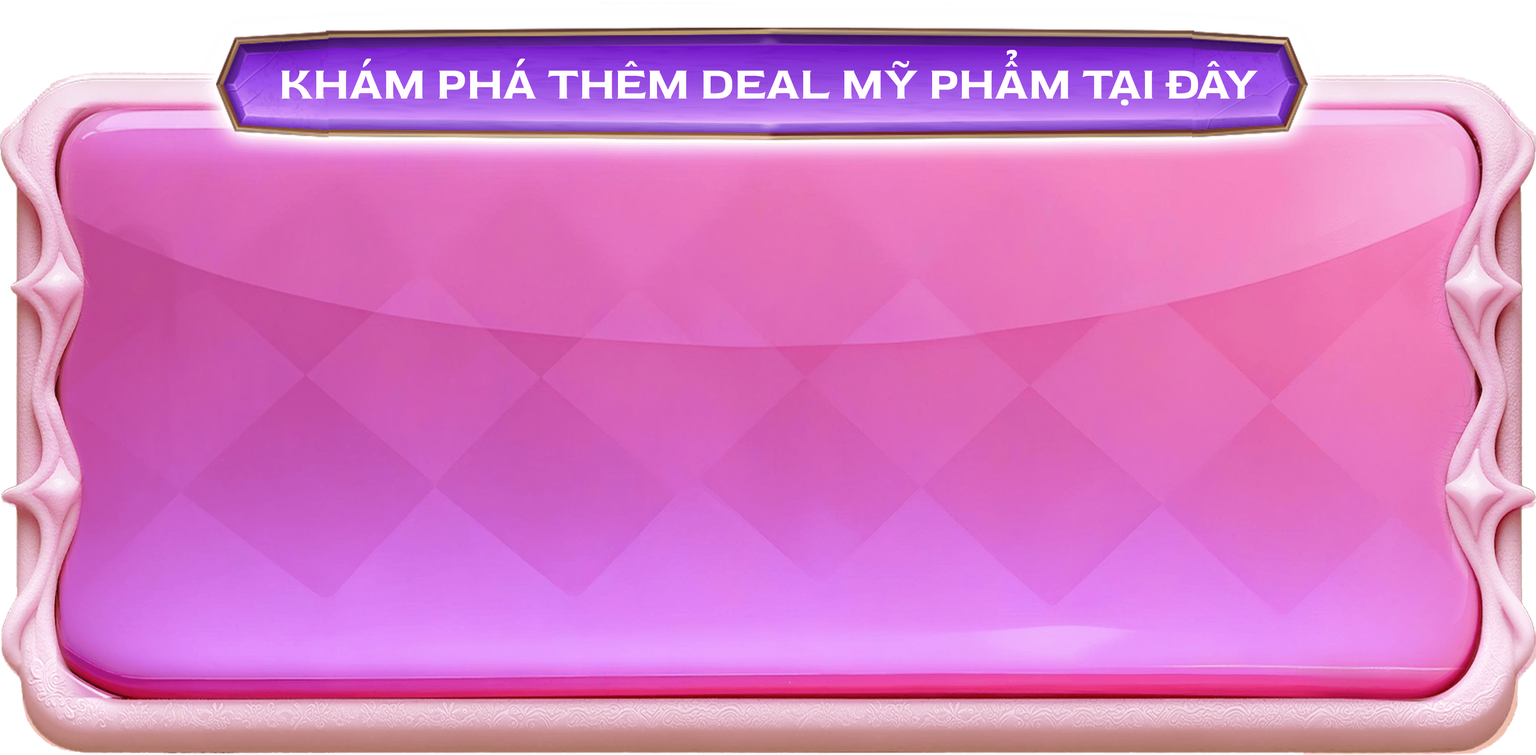
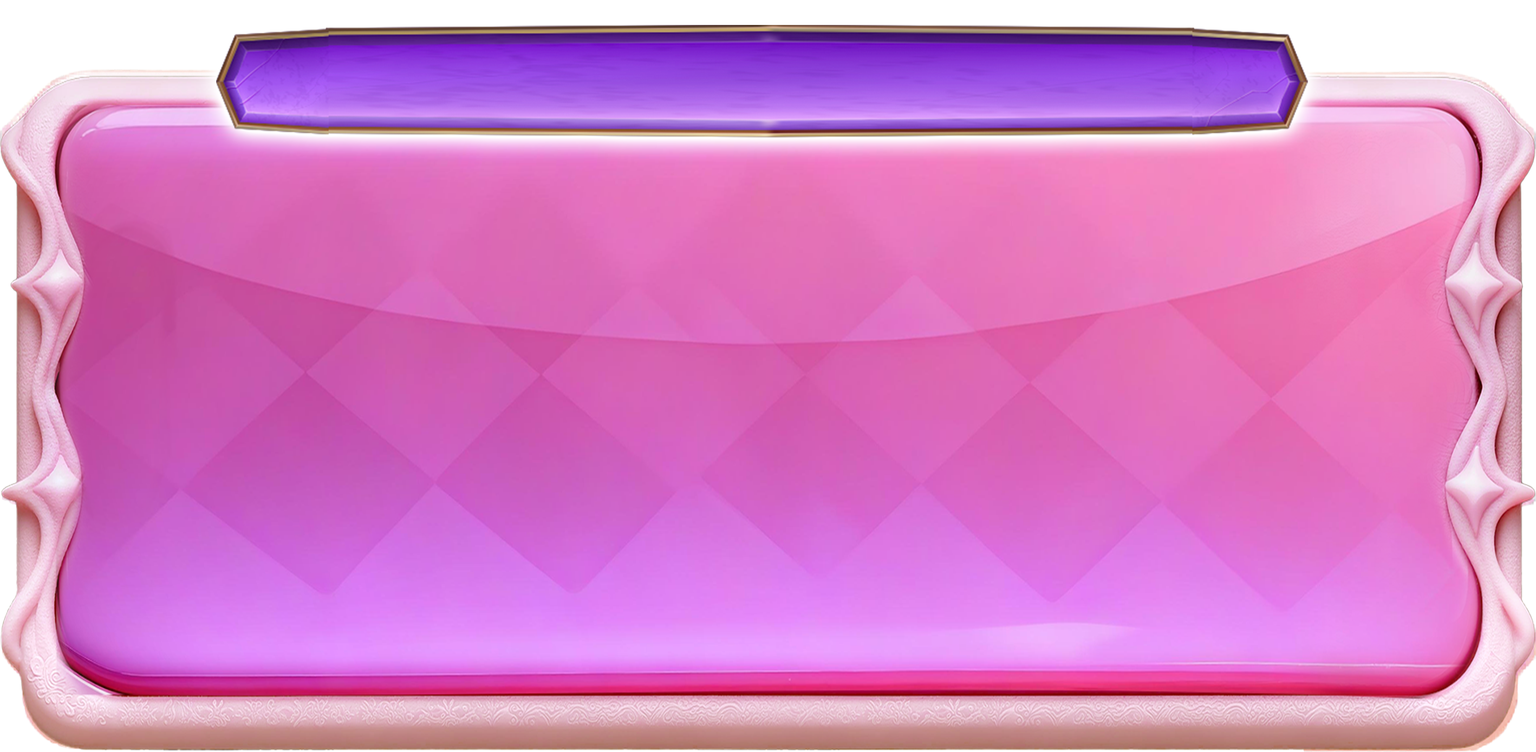
update page

diff --git a/main-page/step-2.html b/main-page/step-2.html
@@ -33,24 +33,24 @@
 		<div class="md-light">
 			<img src="./images/voucher.png" alt="" class="img-ico-3">
 		</div>
-		<div class="md-col md-col-1 cursor-box" data-cursor="cursor1" data-active="active-1" data-product-name="Tặng bạn voucher 50k để " data-product-price="hốt deal điện tử 12.12 này">
+		<div class="md-col md-col-1 cursor-box" data-cursor="cursor1" data-active="active-1" data-title="Chổi thần điện tử" data-product-name="Tặng bạn voucher 50k để " data-product-price="hốt deal điện tử 12.12 này" data-sp = "Khám phá thêm deal điện tử tại đây" data-img-url-1="./images/product-3.png" data-img-url-2="./images/product-2.png" data-img-url-3="./images/product-1.png" >
 
 			<img src="./images/md-sp-1.png" alt="" class="md-sp-1 md-sp">
 			<img src="./images/sp-1.png" alt="" class="sp-1">
 
 			<img src="./images/effect-1.png" alt="" class="effect-1 md-effect">
 		</div>
-		<div class="md-col md-col-2 cursor-box" data-cursor="cursor2" data-active="active-2" data-product-name="Tặng bạn voucher 50k để " data-product-price="hốt deal làm đẹp 12.12 này">
+		<div class="md-col md-col-2 cursor-box" data-cursor="cursor2" data-active="active-2" data-title="Chổi thần làm đẹp" data-product-name="Tặng bạn voucher 50k để " data-product-price="hốt deal làm đẹp 12.12 này" data-sp = "Khám phá thêm deal mỹ phẩm tại đây" data-img-url-1="./images/product-2.png" data-img-url-2="./images/product-3.png" data-img-url-3="./images/product-1.png">
 			<img src="./images/md-sp-2.png" alt="" class="md-sp-2 md-sp">
 			<img src="./images/sp-2.png" alt="" class="sp-2">
 			<img src="./images/effect-2.png" alt="" class="effect-2 md-effect">
 		</div>
-		<div class="md-col  md-col-3 cursor-box" data-cursor="cursor3" data-active="active-3" data-product-name="Tặng bạn voucher 50k để " data-product-price="hốt deal thời trang 12.12 này">
+		<div class="md-col  md-col-3 cursor-box" data-cursor="cursor3" data-active="active-3" data-title="Chổi thần thời trang" data-product-name="Tặng bạn voucher 50k để " data-product-price="hốt deal thời trang 12.12 này" data-sp = "Khám phá thêm deal thời trang tại đây" data-img-url-1="./images/product-2.png" data-img-url-2="./images/product-3.png" data-img-url-3="./images/product-3.png">
 			<img src="./images/md-sp-3.png" alt="" class="md-sp-3 md-sp">
 			<img src="./images/sp-3.png" alt="" class="sp-3">
 			<img src="./images/effect-3.png" alt="" class="effect-3 md-effect">
 		</div>
-		<div class="md-col md-col-4 cursor-box" data-cursor="cursor4" data-active="active-4" data-product-name="Tặng bạn voucher 50k để " data-product-price="hốt deal gia dụng 12.12 này">
+		<div class="md-col md-col-4 cursor-box" data-cursor="cursor4" data-active="active-4" data-title="Chổi thần gia dụng" data-product-name="Tặng bạn voucher 50k để " data-product-price="hốt deal gia dụng 12.12 này" data-sp = "Khám phá thêm deal gia dụng tại đây" data-img-url-1="./images/product-1.png" data-img-url-2="./images/product-3.png" data-img-url-3="./images/product-2.png">
 			<img src="./images/md-sp-4.png" alt="" class="md-sp-4 md-sp">
 			<img src="./images/sp-4.png" alt="" class="sp-4">
 			<img src="./images/effect-4.png" alt="" class="effect-4 md-effect">
@@ -65,21 +65,24 @@
 				<a href="https://www.lazada.vn/" target="_blank"><img src="./images/text-5.png" alt=""></a>
 			</div>
 		<div class="md-product" >
-				<img src="./images/img-2.png" alt="">
+				<div class="title-product">
+					<img src="./images/img-2.png" alt="">
+					<p id="title-sp" class="md-title-sp">Khám phá thêm deal mỹ phẩm tại đây</p>
+				</div>
 				<div class="product-1">
-					<a href="https://lazada.vn/" target="_blank"><img src="./images/product-1.png" alt=""></a>
+					<a href="https://lazada.vn/" target="_blank" ><img id="header-image-1" src="./images/product-1.png" alt=""></a>
 					<p class="title-sp">Lorem ipsum</p>
 					<p>2.000.000&#8363;</p>
 					<p class="giacu">2.000.000&#8363;</p>
 				</div>
 				<div class="product-1 product-2">
-					<a href="https://lazada.vn/" target="_blank"><img src="./images/product-2.png" alt=""></a>
+					<a href="https://lazada.vn/" target="_blank"><img id="header-image-2" src="./images/product-2.png" alt=""></a>
 					<p class="title-sp">Lorem ipsum</p>
 					<p>2.000.000&#8363;</p>
 					<p class="giacu">2.000.000&#8363;</p>
 				</div>
 				<div class="product-1 product-3">
-					<a href="https://lazada.vn/" target="_blank"><img src="./images/product-3.png" alt=""></a>
+					<a href="https://lazada.vn/" target="_blank"><img id="header-image-3" src="./images/product-3.png" alt=""></a>
 					<p class="title-sp">Lorem ipsum</p>
 					<p>2.000.000&#8363;</p>
 					<p class="giacu">2.000.000&#8363;</p>

diff --git a/main-page/css/style.css b/main-page/css/style.css
@@ -325,13 +325,13 @@ img{
   position: relative;
   z-index: 1;
 }
-.page-step-2 .md-row .md-col-4:hover{
+/*.page-step-2 .md-row .md-col-4:hover{
   transform: scale(1.4);
   transition-duration: 0.5s;
   animation: md-col-4 1s;
   animation-fill-mode: forwards;
   z-index: 3;
-}
+}*/
 @keyframes md-col-4{
   0%{
     top: 51%;
@@ -340,11 +340,11 @@ img{
     top: 44%;
   }
 }
-.page-step-2 .md-row.hovering-on-4 .md-col-1{
+/*.page-step-2 .md-row.hovering-on-4 .md-col-1{
   animation: md-col-1 1s;
   animation-fill-mode: forwards;
   z-index: 2;
-}
+}*/
 @keyframes md-col-1{
   0%{
     left: 29.5%;
@@ -353,11 +353,11 @@ img{
     left: 24.5%;
   }
 }
-.page-step-2 .md-row.hovering-on-4 .md-col-2{
+/*.page-step-2 .md-row.hovering-on-4 .md-col-2{
   animation: md-col-2 1s;
   animation-fill-mode: forwards;
   z-index: 1;
-}
+}*/
 @keyframes md-col-2{
   0%{
     left: 42.5%;
@@ -366,11 +366,11 @@ img{
     left: 32%;
   }
 }
-.page-step-2 .md-row.hovering-on-4 .md-col-3{
+/*.page-step-2 .md-row.hovering-on-4 .md-col-3{
   animation: md-col-3 1s;
   animation-fill-mode: forwards;
   z-index: 2;
-}
+}*/
 @keyframes md-col-3{
   0%{
     right: 30.7%;
@@ -379,14 +379,14 @@ img{
     right: 27%;
   }
 }
-.page-step-2 .md-row .md-col-2:hover{
+/*.page-step-2 .md-row .md-col-2:hover{
   transform: scale(1.4);
   transition-duration: 0.5s;
-}
-.page-step-2 .md-row.hovering-on-2 .md-col-1{
+}*/
+/*.page-step-2 .md-row.hovering-on-2 .md-col-1{
   animation: md-col-1-2 1s;
   animation-fill-mode: forwards;
-}
+}*/
 @keyframes md-col-1-2{
   0%{
     left: 29.5%;
@@ -397,10 +397,10 @@ img{
     top: 48.5%;
   }
 }
-.page-step-2 .md-row.hovering-on-2 .md-col-3{
+/*.page-step-2 .md-row.hovering-on-2 .md-col-3{
   animation: md-col-3-2 1s;
   animation-fill-mode: forwards;
-}
+}*/
 @keyframes md-col-3-2{
   0%{
     right: 30.7%;
@@ -411,10 +411,10 @@ img{
     top: 48.5%;
   }
 }
-.page-step-2 .md-row.hovering-on-2 .md-col-4{
+/*.page-step-2 .md-row.hovering-on-2 .md-col-4{
   animation: md-col-4-2 1s;
   animation-fill-mode: forwards;
-}
+}*/
 @keyframes md-col-4-2{
   0%{
     top: 51%;
@@ -423,14 +423,14 @@ img{
     top: 55%;
   }
 }
-.page-step-2 .md-row .md-col-1:hover{
+/*.page-step-2 .md-row .md-col-1:hover{
    transform: scale(1.4);
   transition-duration: 0.5s;
 }
 .page-step-2 .md-row .md-col-3:hover{
    transform: scale(1.4);
   transition-duration: 0.5s;
-}
+}*/
 .page-step-2 .md-row .md-col-2{
   position: absolute;
   left: 42%;
@@ -1100,6 +1100,22 @@ img{
   display: none;
   opacity: 0;
 }
+.md-product .title-product{
+  position: relative;
+}
+.md-product .title-product .md-title-sp{
+  position: absolute;
+    left: 50%;
+    top: 6.5%;
+    font-size: 1.7vw;
+    transform: translateX(-50%);
+    z-index: 5;
+    width: 100%;
+    text-align: center;
+    text-transform: uppercase;
+    font-weight: 600;
+}
+
 
 /*.page-step-2 .md-row.active-1 .md-product{
   animation: md-product 2s;

diff --git a/main-page/scripts/main.js b/main-page/scripts/main.js
@@ -405,23 +405,58 @@ $(document).ready(function() {
     });
 });
 
-
-// 1. Lấy tham chiếu đến phần tử cần thay đổi text
+// 1. Lấy tất cả các thẻ hình ảnh bạn muốn thay đổi
 const headerText = document.getElementById('header-text');
+const title_sp = document.getElementById('title-sp');
+// Lấy 3 thẻ hình ảnh
+const img1 = document.getElementById('header-image-1');
+const img2 = document.getElementById('header-image-2');
+const img3 = document.getElementById('header-image-3');
 
-// 2. Lấy tất cả các vùng sản phẩm (có class là product-area)
+// 2. Lấy tất cả các vùng sản phẩm
 const productAreas = document.querySelectorAll('.md-col');
 
 // 3. Lặp qua từng vùng và thêm sự kiện click
 productAreas.forEach(area => {
     area.addEventListener('click', function() {
         
-       const name = this.getAttribute('data-product-name');
-    const price = this.getAttribute('data-product-price');
+        // --- Lấy dữ liệu Text (giữ nguyên) ---
+        const title = this.getAttribute('data-title');
+        const name = this.getAttribute('data-product-name');
+        const price = this.getAttribute('data-product-price');
+        const sp = this.getAttribute('data-sp');
         
-        const finalHtml = "Chổi thần mỹ phẩm"+ '<br>' + name + '<br>' + price;
-    
-    // Gán kết quả vào innerHTML
-    headerText.innerHTML = finalHtml;
+        // --- Lấy 3 URL hình ảnh mới ---
+        // Ví dụ: <div data-img-url-1="hinh1.jpg" ...>
+        const url1 = this.getAttribute('data-img-url-1');
+        const url2 = this.getAttribute('data-img-url-2');
+        const url3 = this.getAttribute('data-img-url-3');
+        
+        
+        // --- Thay đổi Text ---
+        const finalHtml = title + '<br>' + name + '<br>' + price;
+        const finaltitle = sp;
+        
+        if (headerText) {
+            headerText.innerHTML = finalHtml;
+        }
+
+        if (title_sp) {
+            title_sp.innerHTML = finaltitle;
+        }
+        
+        // --- Thay đổi 3 Hình ảnh ---
+        // Kiểm tra xem thẻ có tồn tại và URL có tồn tại không trước khi gán
+        if (img1 && url1) {
+            img1.src = url1;
+        }
+
+        if (img2 && url2) {
+            img2.src = url2;
+        }
+        
+        if (img3 && url3) {
+            img3.src = url3;
+        }
     });
 });
